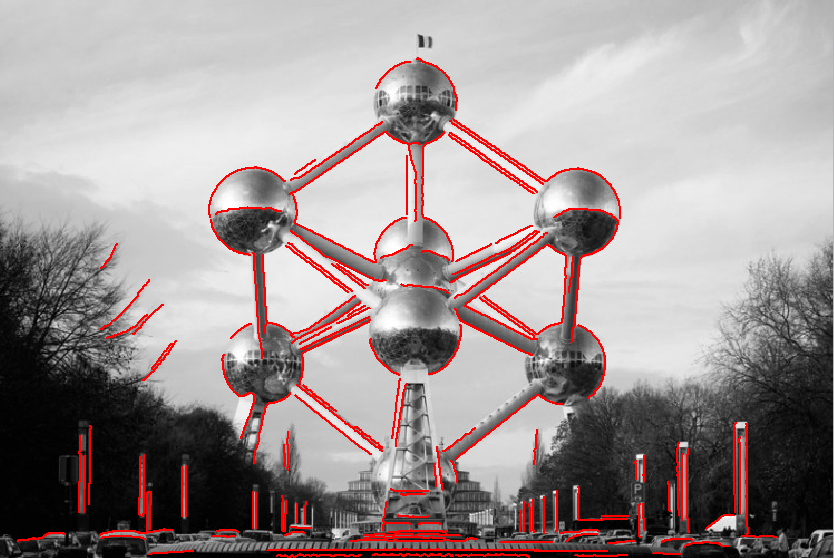
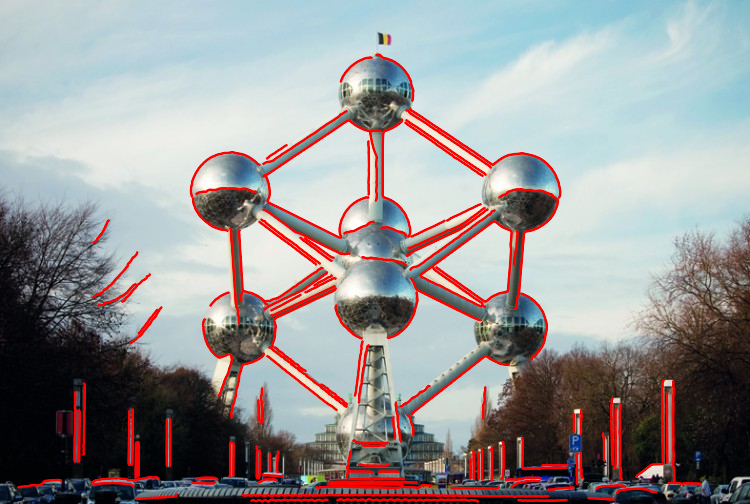
image.ContourDetector remove vignette, add magick example, cleanup license file

diff --git a/image.ContourDetector/README.md b/image.ContourDetector/README.md
@@ -1,7 +1,5 @@
 # image.ContourDetector - Unsupervised Smooth Contour Line Detection for images
 
-![](https://github.com/bnosac/image.ContourDetector/blob/master/inst/extdata/logo-cld.png?raw=true)
-
 The  **image.ContourDetector** R package implements Unsupervised Smooth Contour Line Detection for images. 
 
 - It contains 1 main function **image_contour_detector**. If you give it an image matrix with grey scale values in the 0-255 range, it will find contour lines in the image.
@@ -18,37 +16,33 @@ library(image.ContourDetector)
 library(pixmap)
 imagelocation <- system.file("extdata", "image.pgm", package="image.ContourDetector")
 image <- read.pnm(file = imagelocation, cellres = 1)
-x <- image@grey * 255
+x     <- image@grey * 255
 contourlines <- image_contour_detector(x)
 contourlines
 plot(image)
 plot(contourlines)
 ```
-![](https://github.com/bnosac/image.ContourDetector/blob/master/inst/extdata/cld-result.png?raw=true)
+![](https://raw.githubusercontent.com/bnosac/image/master/image.ContourDetector/inst/extdata/cld-result.png?raw=true)
 
-If you have another type of image (jpg, png, ...). Convert the image to pgm format before getting the 0-255 range or convert it to grey format before passing it on to the function.
+If you have another type of image (jpg, png, ...). Convert the image to portable grey format before applying the function
 
 ```r
 library(magick)
-f <- tempfile(fileext = ".pgm")
-x <- image_read(system.file("extdata", "atomium.jpg", package="image.ContourDetector"))
-x <- image_convert(x, format = "pgm", depth = 8)
-image_write(x, path = f, format = "pgm")
+x   <- image_read(system.file("extdata", "atomium.jpg", package="image.ContourDetector"))
+mat <- image_data(x, channels = "gray")
+mat <- as.integer(mat, transpose = TRUE)
+mat <- drop(mat)
+contourlines <- image_contour_detector(mat)
+plot(contourlines)
 
-image <- read.pnm(file = f, cellres = 1)
-contourlines <- image_contour_detector(image@grey * 255)
-contourlines
-par(mai = c(0, 0, 0, 0), mar = c(0, 0, 0, 0))
-plot(image)
-plot(contourlines, add = TRUE, col = "red")
+plt <- image_draw(x)
+contourlines$data$y <- image_info(x)$height - contourlines$data$y
+plot(contourlines, add = TRUE, col = "red", lwd = 3)
+dev.off()
 ```
 
-![](https://github.com/bnosac/image.ContourDetector/blob/master/inst/extdata/cld-result2.png?raw=true)
+![](https://raw.githubusercontent.com/bnosac/image/master/image.ContourDetector/inst/extdata/cld-result2.png?raw=true)
 
-
-## Installation
-
-See instructions at https://github.com/bnosac/image
 
 ## Support in image recognition
 
